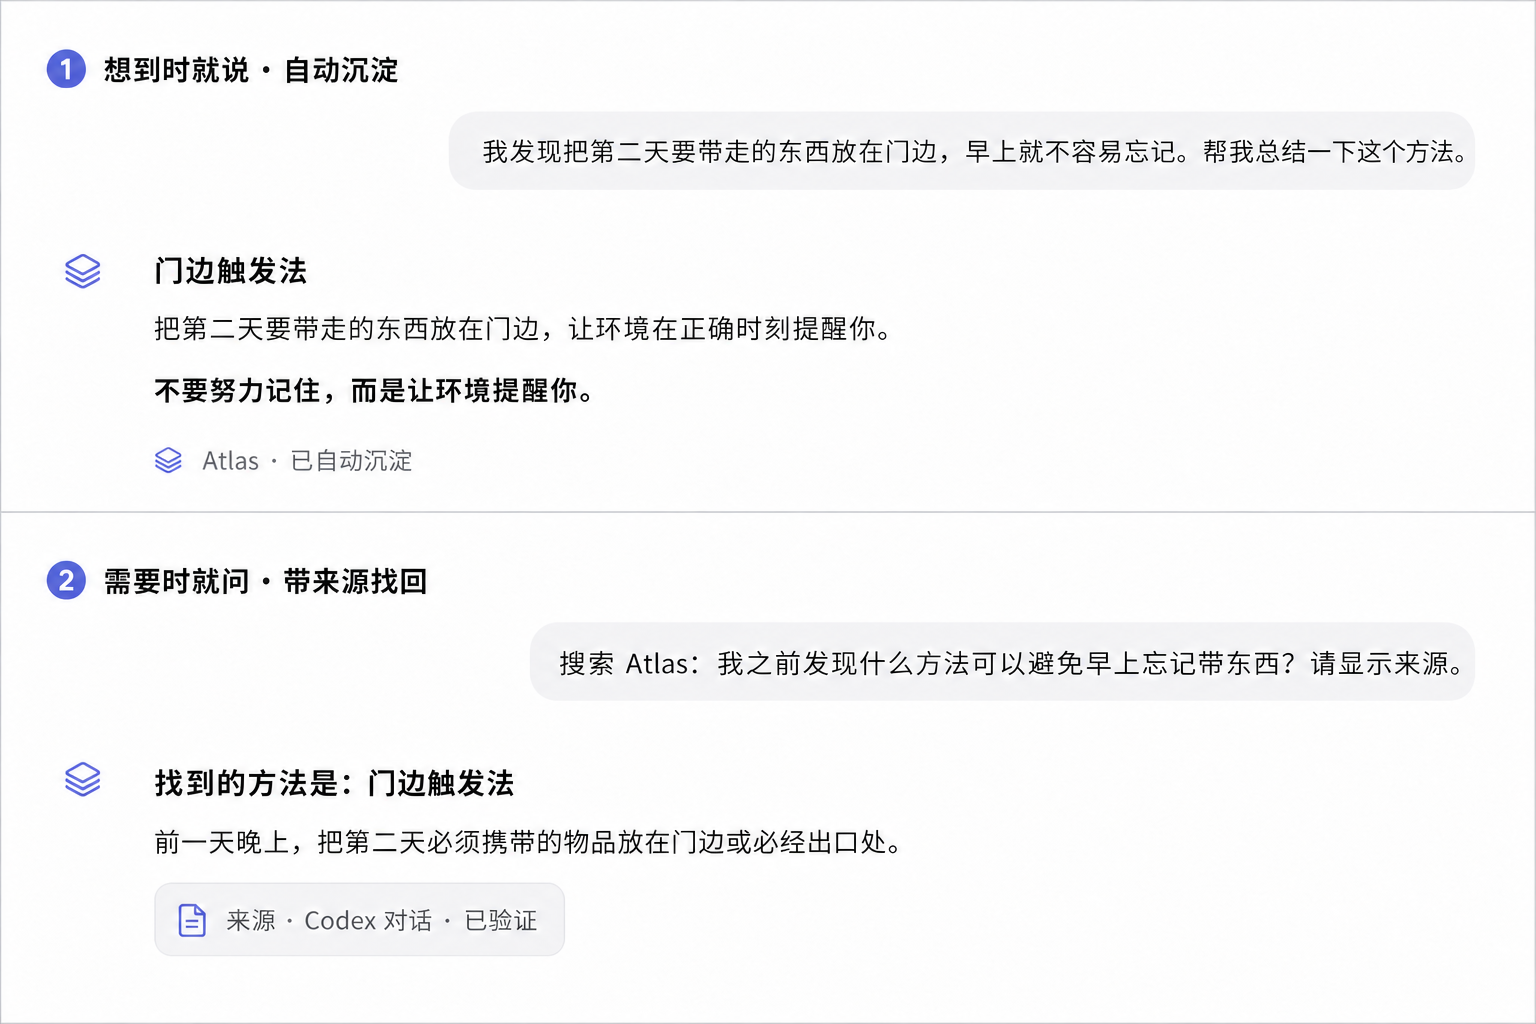
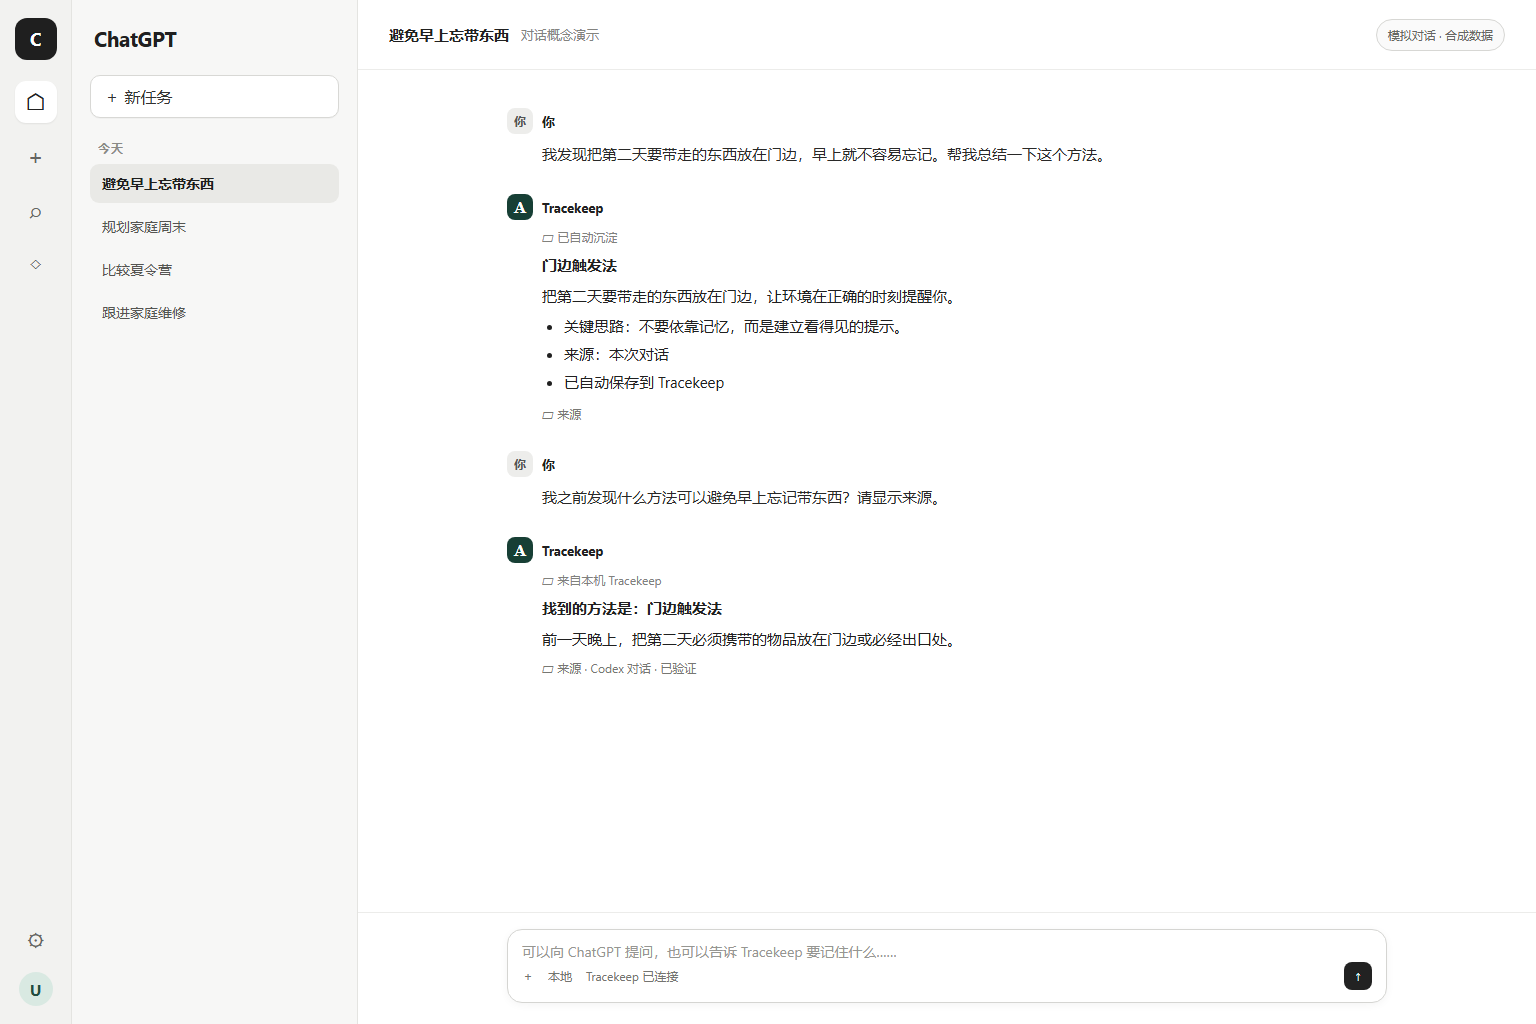
Present Tracekeep without migration messaging (#27)

diff --git a/scripts/competition/codex-tracekeep-conversation.zh-CN.html b/scripts/competition/codex-tracekeep-conversation.zh-CN.html
@@ -1,0 +1,61 @@
+<!doctype html>
+<html lang="zh-CN">
+<head>
+  <meta charset="utf-8">
+  <meta name="viewport" content="width=device-width, initial-scale=1">
+  <link rel="icon" href="data:,">
+  <title>Tracekeep 中文对话演示</title>
+  <style>
+    html, body, iframe { width: 100%; height: 100%; margin: 0; border: 0; overflow: hidden; }
+  </style>
+</head>
+<body>
+  <iframe id="demo" src="codex-tracekeep-conversation.html" title="Tracekeep 中文对话演示"></iframe>
+  <script>
+    const replacements = new Map([
+      ["＋ New task", "＋ 新任务"],
+      ["Today", "今天"],
+      ["Avoid forgetting in the morning", "避免早上忘带东西"],
+      ["Plan the family weekend", "规划家庭周末"],
+      ["Compare summer camps", "比较夏令营"],
+      ["Home repair follow-up", "跟进家庭维修"],
+      ["Conversation concept", "对话概念演示"],
+      ["Simulated conversation · synthetic data", "模拟对话 · 合成数据"],
+      ["You", "你"],
+      ["I discovered that putting tomorrow's must-carry items by the door makes them harder to forget. Summarize this method for me.", "我发现把第二天要带走的东西放在门边，早上就不容易忘记。帮我总结一下这个方法。"],
+      ["▱ Automatically captured", "▱ 已自动沉淀"],
+      ["Doorway trigger", "门边触发法"],
+      ["Put tomorrow's must-carry items by the door so the environment reminds you at the right time.", "把第二天要带走的东西放在门边，让环境在正确的时刻提醒你。"],
+      ["Key idea: Don't rely on memory; create a visible cue.", "关键思路：不要依靠记忆，而是建立看得见的提示。"],
+      ["Source: This conversation", "来源：本次对话"],
+      ["Saved automatically to Tracekeep", "已自动保存到 Tracekeep"],
+      ["▱ Sources", "▱ 来源"],
+      ["What method did I find for avoiding forgotten items in the morning? Show the source.", "我之前发现什么方法可以避免早上忘记带东西？请显示来源。"],
+      ["▱ From your local Tracekeep", "▱ 来自本机 Tracekeep"],
+      ["The method was: 门边触发法", "找到的方法是：门边触发法"],
+      ["The method was: Doorway trigger", "找到的方法是：门边触发法"],
+      ["Put the things you must carry the next day by the door or another unavoidable exit point.", "前一天晚上，把第二天必须携带的物品放在门边或必经出口处。"],
+      ["▱ Source · Codex conversation · Verified", "▱ 来源 · Codex 对话 · 已验证"],
+      ["Ask ChatGPT anything, or tell Tracekeep what to remember…", "可以向 ChatGPT 提问，也可以告诉 Tracekeep 要记住什么……"],
+      ["Local", "本地"],
+      ["Tracekeep connected", "Tracekeep 已连接"]
+    ]);
+
+    const demo = document.getElementById("demo");
+    const localize = () => {
+      const doc = demo.contentDocument;
+      doc.documentElement.lang = "zh-CN";
+      const walker = doc.createTreeWalker(doc.body, demo.contentWindow.NodeFilter.SHOW_TEXT);
+      let node;
+      while ((node = walker.nextNode())) {
+        let value = node.nodeValue;
+        for (const [from, to] of replacements) value = value.replaceAll(from, to);
+        node.nodeValue = value;
+      }
+      document.body.dataset.ready = "true";
+    };
+    demo.addEventListener("load", localize);
+    if (demo.contentDocument?.readyState === "complete") localize();
+  </script>
+</body>
+</html>

diff --git a/README.zh-CN.md b/README.zh-CN.md
@@ -8,7 +8,7 @@
 
 [下载 Tracekeep v0.4.0 Windows 版](https://github.com/randyhe/tracekeep/releases/latest) · [English](README.md) · [工作原理](#tracekeep-如何工作) · [隐私安全与费用](#隐私安全与费用)
 
-> **当前版本（2026-07-21）：** **Tracekeep v0.4.0** 是更名后的首个 Windows 正式版本。旧 Atlas 数据保持兼容；参见[从 Atlas 升级](#从-atlas-升级)。
+> **当前版本（2026-07-21）：** **Tracekeep v0.4.0** 是当前 Windows 正式版本。
 
 生活不会等你做完一件事再开始下一件事。电话来了，孩子叫你，一场会议开始了，一个新想法又冒出来。查了一半的夏令营、还没预约的体检、等待回复的维修安排，都可能被下一次打断重新埋下去。
 
@@ -18,7 +18,7 @@
 
 ![Tracekeep 自动沉淀日常经验，并在之后的任务中带来源找回](docs/assets/tracekeep-chat-first-uat.png)
 
-*基于产品负责人真实 UAT 制作的隐私安全复现：一次普通对话被自动沉淀，随后在另一个 Codex 任务中带来源找回。该记录完成于更名前，因此截图保留旧界面名称，作为历史测试证据。Tracekeep 当前以本地 Codex 插件形式交付；具体宿主界面可能有所变化。*
+*基于产品负责人真实 UAT 制作的隐私安全复现：一次普通对话被自动沉淀，随后在另一个 Codex 任务中带来源找回。Tracekeep 当前以本地 Codex 插件形式交付；具体宿主界面可能有所变化。*
 
 ## 30 秒理解 Tracekeep
 
@@ -97,7 +97,7 @@ Tracekeep 计划中的手机体验是 **ChatGPT Direct**，不是用手机浏览
 
 Web Dashboard 适合一次查看多条记录、检查来源、搜索、合并重复项和管理状态。它为对话优先的体验提供集中管理，但不要求你每次记录或回忆之前都先打开网页。
 
-![Tracekeep Today 页面，使用合成的日常生活示例](docs/assets/tracekeep-today.png)
+![Tracekeep Today 页面，使用合成的日常生活示例](docs/assets/tracekeep-today-en.png)
 
 ## 隐私、安全与费用
 
@@ -126,10 +126,6 @@ Web Dashboard 适合一次查看多条记录、检查来源、搜索、合并重
 ## 开发与技术资料
 
 Tracekeep 使用 Node.js、TypeScript、Fastify、React 和 SQLite。
-
-### 从 Atlas 升级
-
-Tracekeep 是原 Atlas 项目的新名称。服务和自动沉淀 Hook 优先使用新的 `TRACEKEEP_*` 环境变量和 `%LOCALAPPDATA%\Tracekeep`，同时继续识别旧的 `ATLAS_*` 变量和已有的 `%LOCALAPPDATA%\Atlas\atlas.sqlite` 数据库。运行时会同时持有旧版和新版生命周期锁，防止 Atlas 与 Tracekeep 服务并发写入同一个数据库。升级过程不会自动移动或删除旧数据目录；详情参见 [`docs/project/rename-migration.md`](docs/project/rename-migration.md)。
 
 ```powershell
 pnpm install

diff --git a/README.md b/README.md
@@ -8,7 +8,7 @@
 
 [Download Tracekeep v0.4.0 for Windows](https://github.com/randyhe/tracekeep/releases/latest) · [中文说明](README.zh-CN.md) · [How it works](#how-tracekeep-works) · [Privacy & security](#privacy-security-and-cost)
 
-> **Current release (July 21, 2026):** **Tracekeep v0.4.0** is the first Windows release under the new name. Existing Atlas data remains compatible; see [Upgrade from Atlas](#upgrade-from-atlas).
+> **Current release (July 21, 2026):** **Tracekeep v0.4.0** is the current Windows release.
 
 Life rarely lets you finish one thing before the next begins. A call comes in, your child needs you, a meeting starts, or a new idea appears. The camp comparison you paused, the checkup you meant to book, and the reply you were waiting for can disappear beneath the next interruption.
 
@@ -126,10 +126,6 @@ See [SECURITY.md](SECURITY.md) for the threat boundary, reporting process, and c
 ## Development
 
 Tracekeep uses Node.js, TypeScript, Fastify, React, and SQLite.
-
-### Upgrade from Atlas
-
-Tracekeep is the new product name for the project previously called Atlas. The service and automatic-capture hook prefer the new `TRACEKEEP_*` environment variables and `%LOCALAPPDATA%\Tracekeep`, but continue to recognize legacy `ATLAS_*` variables and an existing `%LOCALAPPDATA%\Atlas\atlas.sqlite` database. The runtime holds both legacy and current lifetime locks so old and new services cannot write the same database concurrently. The upgrade path never moves or deletes the legacy data directory automatically; see [`docs/project/rename-migration.md`](docs/project/rename-migration.md).
 
 ```powershell
 pnpm install